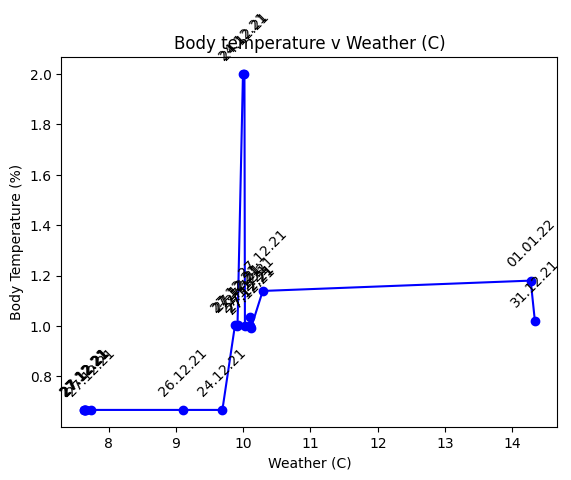
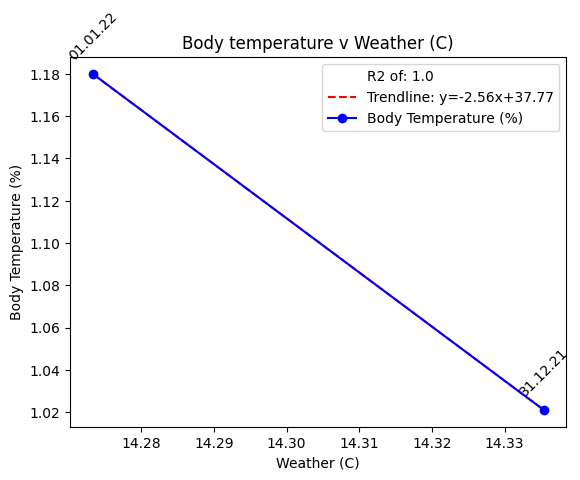
comment from python script

diff --git a/chart_build.py b/chart_build.py
@@ -1,11 +1,12 @@
 # importing the required module
 import matplotlib.pyplot as plt
+import numpy as np
 
 
 day = open('temp_data/summary_day.txt', "r").read().splitlines()
-avg_temp = []
 avg_weather = list(map(float, open('temp_data/summary_avg_weather.txt', "r").read().splitlines()))
 no_layers = list(map(float, open('temp_data/summary_no_layers.txt', "r").read().splitlines()))
+avg_temp = []
 
 for i in open('temp_data/summary_avg_temp.txt', "r").read().splitlines():
     avg_temp.append(round(float(i),3))
@@ -14,17 +15,44 @@ for i in open('temp_data/summary_avg_temp.txt', "r").read().splitlines():
 master_list = [avg_weather, no_layers]
 x_ax_names = ['Weather (C)', 'Number of Layers']
 graph_save_names = ['weather_graph', 'layer_graph']
+temp_data_names = ['weather_correlation', 'layer_correlation']
+
+def write_data(my_list, save_name):
+    textfile = open('temp_data/' +save_name+".txt", "w")
+    for i in my_list:
+        textfile.write(str(i) + "\n")
+    textfile.close()
 
 
-def create_plots(x_axis, x_axis_name, save_name):
+def create_plots(x_axis, x_axis_name, graph_save_name,temp_save_name):
 
     sorted_x_axis, sorted_avg_temp, sorted_day = zip(*sorted(zip(x_axis, avg_temp, day)))
 
     plt.figure()
-    plt.plot(sorted_x_axis, sorted_avg_temp, 'bo-')
+
+    #Calculating trendline
+    z = np.polyfit(sorted_x_axis,sorted_avg_temp,1)
+    p = np.poly1d(z)
+    equat = "y=%.2fx+%.2f"%(z[0],z[1])
+
+    #getting R2
+    yhat = p(sorted_x_axis)
+    ybar = np.sum(sorted_avg_temp)/len(sorted_avg_temp)
+    ssreg = np.sum((yhat-ybar)**2)
+    sstot = np.sum((sorted_avg_temp - ybar)**2)
+    R2 = round(ssreg / sstot,2)
+    plt.plot([], [], ' ', label= "R2 of: " +str(R2))
+
+    #plotting trendline
+    plt.plot(sorted_x_axis,p(sorted_x_axis),"r--", label = "Trendline: "+equat)
+
+
+    #plotting sorted x axis v average body temperature
+    plt.plot(sorted_x_axis, sorted_avg_temp, 'bo-', label = "Body Temperature (%)")
     plt.xlabel(x_axis_name)
     plt.ylabel('Body Temperature (%)')
     plt.title('Body temperature v ' + x_axis_name)
+
 
     count = 0
 
@@ -38,7 +66,15 @@ def create_plots(x_axis, x_axis_name, save_name):
                     rotation = 45,
                     ha='center') # horizontal alignment can be left, right or center
 
-    plt.savefig('docs/assets/' + save_name +'.png',bbox_inches='tight')
+    plt.legend()
+
+    plt.savefig('docs/assets/' + graph_save_name +'.png',bbox_inches='tight')
+
+    save_list = [R2,equat]
+
+    write_data(save_list,temp_save_name)
+
+
 
 for i in range(len(x_ax_names)):
-    create_plots(master_list[i], x_ax_names[i], graph_save_names[i])
+    create_plots(master_list[i], x_ax_names[i], graph_save_names[i],temp_data_names[i])

diff --git a/super.py b/super.py
@@ -1,40 +1,27 @@
 #Hello this is the main file which should be run for each cycle
 
-import os
-
 
 #sense
-exec(open("./sense.py").read())
+#exec(open("./sense.py").read())
 
 #upload data
-exec(open("./upload.py").read())
+#exec(open("./upload.py").read())
 
-
-#Create website assets:
-    #Read data 
-    #Do processing (multi-dimensional linear regression)
-        #this includes calculating the number of layers to cycle right now
-    #build chart
-
-#exec(open("./clean_assets.py").read())
-
+#reading summary data from google sheets
 exec(open("./read_gsheets.py").read())
 
+#doing ML to process + correlate data
 exec(open("./data_processing.py").read())
 
-
+#building charts + getting equation + R2
 exec(open("./chart_build.py").read())
+
+#building daily chart - if carousel is implemented, this will replace this function
 exec(open("./daily_chart_build.py").read())
 print('Generated charts')
 
-
-
-directory = 'docs/assets/'
-files = os.listdir(directory)
-
-#this while loop is to stall out until all 3 graphs have been uploaded to the folder
-'''while len(files)<3:
-    files =os.listdir(directory)'''
+#updating HTML file
+exec(open("./update_html.py").read())
 
 #pushing updated files to github
 exec(open("./push_to_github.py").read())
